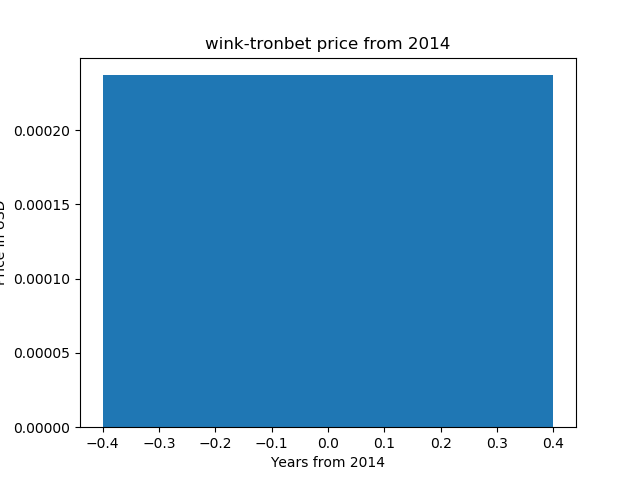
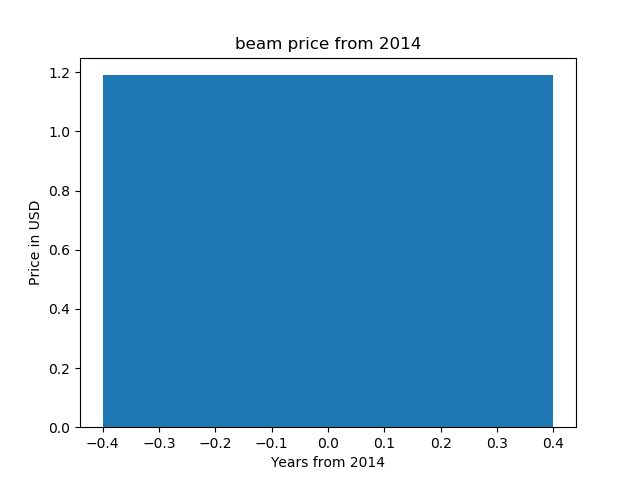
first commit

diff --git a/example.py b/example.py
@@ -10,7 +10,7 @@ from time import gmtime, strftime
 import matplotlib.pyplot as plt
 
 enddate = strftime("%Y%m%d", gmtime())
-r  = requests.get("https://coinmarketcap.com/currencies/wink-tronbet/historical-data/?start=20140101&end={0}".format(enddate))
+r  = requests.get("https://coinmarketcap.com/currencies/beam/historical-data/?start=20140101&end={0}".format(enddate))
 data = r.text
 
 soup = BeautifulSoup(data, "html.parser")
@@ -44,7 +44,7 @@ print(x)
 
 x = list(range(0, len(prices)))
 
-plt.title('wink-tronbet price from 2014')
+plt.title('beam price from 2014')
 plt.ylabel('Price in USD')
 plt.xlabel('Years from 2014')
 plt.bar(x, prices)

diff --git a/README.md b/README.md
@@ -1,6 +1,6 @@
-# wink-tronbet price chart 
+# beam price chart 
 
-wink-tronbet price chart (matplotlib, python)
+beam price chart (matplotlib, python)
 
 https://pythonprogramminglanguage.com
 
